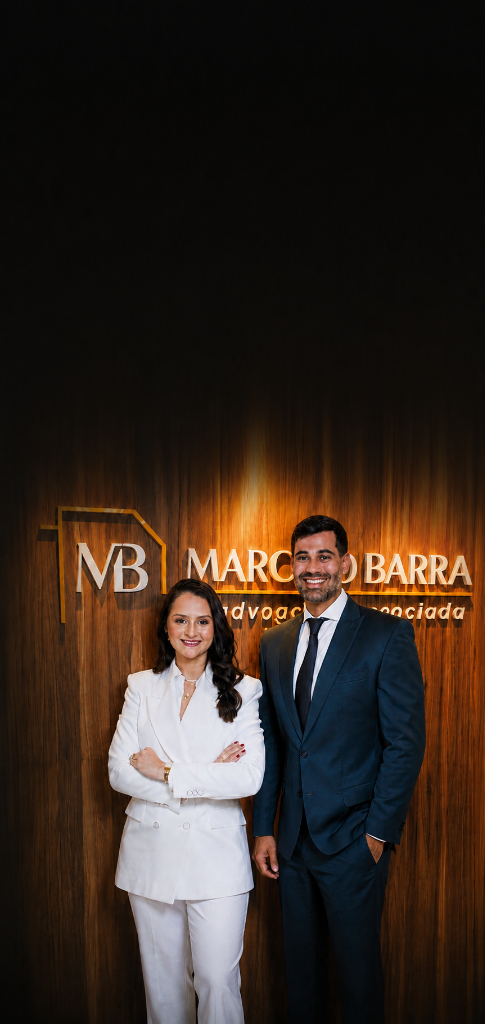
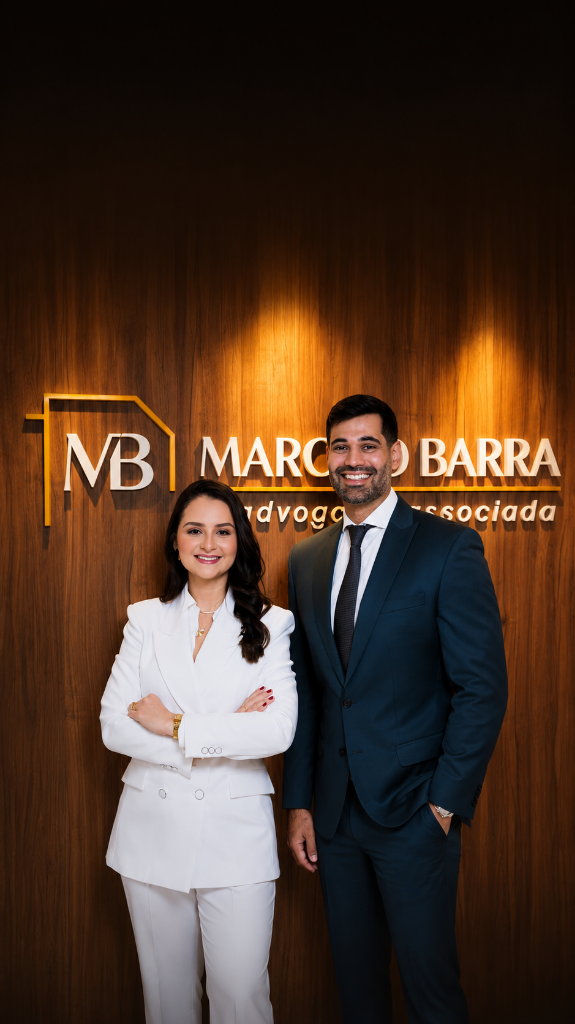
feat: apply new mobile portrait image with top headroom and 100svh fullscreen mobile layout

diff --git a/app/globals.css b/app/globals.css
@@ -38,12 +38,11 @@
 @media(max-width:900px){
   .hero{
     height:100svh;
-    min-height:640px;
-    max-height:920px;
+    min-height:100svh;
     display:flex;
     flex-direction:column;
     justify-content:space-between;
-    padding-bottom:28px;
+    padding-bottom:24px;
     background:#070707;
     position:relative;
     overflow:hidden;
@@ -73,7 +72,7 @@
     position:absolute;
     inset:0;
     z-index:2;
-    background:linear-gradient(180deg, rgba(7,7,7,0.7) 0%, rgba(7,7,7,0.1) 30%, transparent 50%, rgba(7,7,7,0.85) 100%);
+    background:linear-gradient(180deg, #070707 0%, rgba(7,7,7,0.75) 28%, rgba(7,7,7,0.25) 50%, transparent 68%, rgba(7,7,7,0.88) 100%);
     pointer-events:none;
     display:block;
   }
@@ -81,7 +80,7 @@
     position:relative;
     z-index:3;
     margin:0;
-    padding:96px 24px 0;
+    padding:94px 22px 0;
     max-width:none;
     width:100%;
     flex:1;
